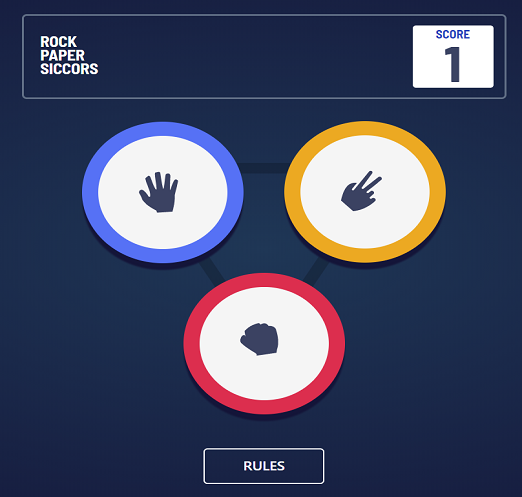
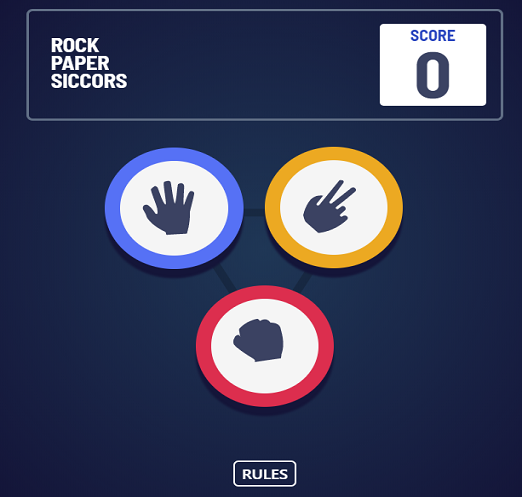
vv

diff --git a/css/rock.css b/css/rock.css
@@ -1,96 +1,12 @@
-@import url('https://fonts.googleapis.com/css2?family=Barlow+Semi+Condensed:wght@700&display=swap');
 
-.rock-bg {
-    background-image: radial-gradient(hsl(214, 47%, 23%), hsl(237, 49%, 15%));
-    /* height: 100vh; */
-    background-size: cover;
-    padding: 50px;
-
-}
-
-.title-container {
-    /* position: relative;
-    left: 400px;*/
-    min-width: 300px;
-    width: 600px;
-    height: 120px;
-    border-style: solid;
-    border-width: 3px;
-    border-color: hsl(217, 16%, 45%);
-    border-radius: 6px;
-    padding: 5px;
-
-
-
-}
-
-.title {
-    color: #ffffff;
-    font-family: 'Barlow Semi Condensed', sans-serif;
-    font-size: 22px;
-    font-weight: bold;
-    text-align: left;
-    padding-left: 15px;
-    padding-top: 15px;
-}
-
-.no-margin {
-    margin-top: -28px;
-}
-
-.score-container {
-    width: 100px;
-    height: auto;
-
-    background-color: #ffffff;
-    border-style: solid;
-    border-width: 0px;
-    border-radius: 4px;
-}
-
-.score {
-    color: hsl(229, 25%, 31%);
-    font-family: 'Barlow Semi Condensed', sans-serif;
-    font-size: 70px;
-    margin: -40px;
-}
-
-.scoretitle {
-    color: hsl(229, 64%, 46%);
-    font-family: 'Barlow Semi Condensed', sans-serif;
-    font-size: 16px;
-
-}
-
-
-
-
-
-.pickimg{
-text-align: center;
-}
-.housepickimg{
-    margin-left: 50px;
-}
-/* #result{
-     margin-top: 150px;
-    margin-left: 50px; 
-}
-  */
-.heading{
-    color: #ffffff;
-    font-family: 'Barlow Semi Condensed', sans-serif;
-    font-size: 18px;
-    font-weight: bold;
-}
 @import url('https://fonts.googleapis.com/css2?family=Bree+Serif&family=Caveat:wght@400;700&family=Lobster&family=Monoton&family=Open+Sans:ital,wght@0,400;0,700;1,400;1,700&family=Playfair+Display+SC:ital,wght@0,400;0,700;1,700&family=Playfair+Display:ital,wght@0,400;0,700;1,700&family=Roboto:ital,wght@0,400;0,700;1,400;1,700&family=Source+Sans+Pro:ital,wght@0,400;0,700;1,700&family=Work+Sans:ital,wght@0,400;0,700;1,700&display=swap');
 @import url('https://fonts.googleapis.com/css2?family=Barlow+Semi+Condensed:wght@700&display=swap');
 
 .rock-bg {
     background-image: radial-gradient(hsl(214, 47%, 23%), hsl(237, 49%, 15%));
-    height: 100vh;
+    min-height: 75vh;
     background-size: cover;
-    padding: 50px;
+    padding: 10px;
 
 }
 
@@ -311,7 +227,7 @@ text-align: center;
 
 
 .picked-img-container {
-    margin-top: 50px;
+    margin-top: 20px;
     color: whitesmoke;
     font-family: 'Barlow Semi Condensed', sans-serif;
     font-size: 30px;
@@ -367,18 +283,19 @@ text-align: center;
 }
 
 .rules {
-
+/* 
     width: 150px;
-    height: 50px;
+    height: 50px; */
     border-radius: 5px;
     border-width: 2px;
-    font-size: 18px;
+    font-size: 15px;
     font-weight: 600;
     color: white;
     border-style: solid;
     border-color: white;
     background-color: transparent;
 }
+
 /* .wrapper {
     background: repeating-radial-gradient(circle at 100%,hsl(214, 47%, 23%),hsl(237, 49%, 15%));
   } */

diff --git a/index.html b/index.html
@@ -74,7 +74,7 @@
                     </div>
                         <div class="d-flex flex-row justify-content-around">
                             <a href="" data-toggle="modal" data-target="#todoApp" id="todolink" >Website</a>
-                            <a href="https://github.com/vgosangi/Todolist" target="_blank" >Code</a>
+                            <a href="https://github.com/vgosangi/Portfolio" target="_blank" >Code</a>
 
                         </div>
 
@@ -128,7 +128,7 @@
 
                         <div class="d-flex flex-row justify-content-around">
                             <a href="" data-toggle="modal" data-target="#UrlShorten" >Website</a>
-                            <a href="https://github.com/vgosangi/UrlShorten" target="_blank" >Code</a>
+                            <a href="https://github.com/vgosangi/Portfolio" target="_blank" >Code</a>
                         </div>
                             
                             
@@ -203,7 +203,7 @@
 
                         <div class="d-flex flex-row justify-content-around">
                             <a href="" data-toggle="modal" data-target="#rockpaper" >Website</a>
-                            <a href="hhttps://github.com/vgosangi/RockPaperandSiccors" target="_blank">Code</a>
+                            <a href="https://github.com/vgosangi/Portfolio" target="_blank">Code</a>
                         </div>
                             
                             

diff --git a/js/rock.js b/js/rock.js
@@ -25,6 +25,9 @@ let valueObject = {
     siccorssiccors: 'draw'
 };
 let house = ['siccors', 'rock', 'paper', 'siccors', 'rock', 'paper'];
+document.getElementById('rulesclose').addEventListener('click',function(){
+    document.getElementById('rockrulespop').classList.add('d-none')
+})
 
 document.getElementById('playagain').addEventListener('click', function() {
     mainEl.classList.remove('d-none');
